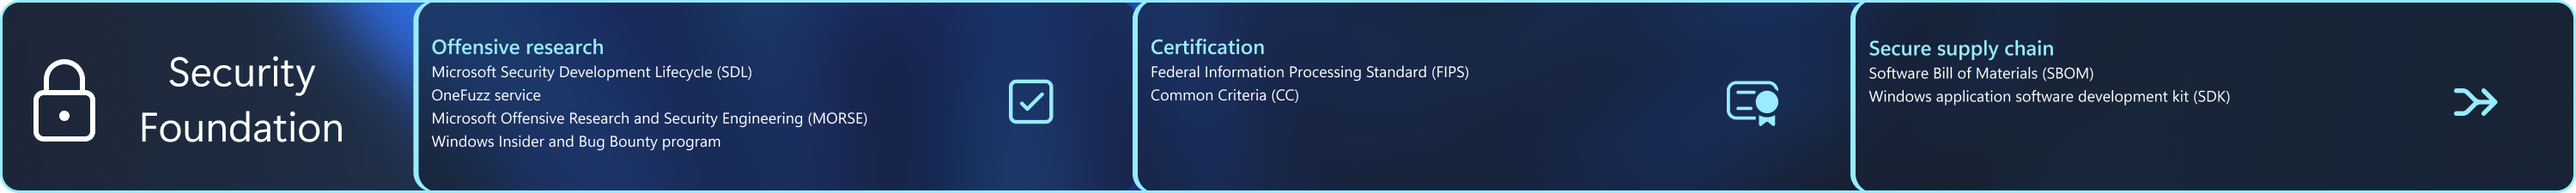
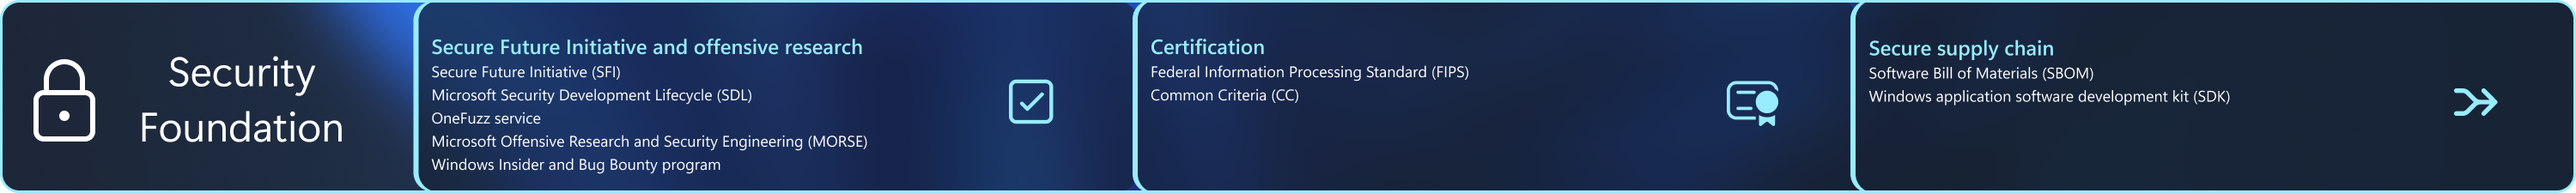
SFI addition

diff --git a/windows/security/book/security-foundation-offensive-research.md b/windows/security/book/security-foundation-offensive-research.md
@@ -5,9 +5,32 @@ ms.topic: overview
 ms.date: 09/06/2024
 ---
 
-# Offensive research
+# Secure Future Initiative and offensive research
 
 :::image type="content" source="images/security-foundation.png" alt-text="Diagram containing a list of security features." lightbox="images/security-foundation.png" border="false":::
+
+## Secure Future Initiative (SFI)
+
+
+
+:::row:::
+    :::column:::
+        Launched in November 2023, the Microsoft Secure Future Initiative (SFI) is a multiyear commitment dedicated to advancing the way we design, build, test, and operate our technology. Our goal is to ensure that our solutions meet the highest possible standards for security.
+
+The increasing scale and high stakes of cyberattacks prompted the launch of SFI. This program brings together every part of Microsoft to enhance cybersecurity protection across our company and products. We carefully considered our internal observations and feedback from customers, governments, and partners to identify the greatest opportunities to impact the future of security.
+
+To maintain accountability and keep our customers, partners, and the security community informed, Microsoft provides regular updates on the progress of SFI.
+    :::column-end:::
+    :::column:::
+:::image type="content" source="images/sfi.png" alt-text="Diagram of the SFI initiative.":::
+    :::column-end:::
+:::row-end:::
+
+
+:::image type="icon" source="images/learn-more.svg" border="false"::: **Learn more:**
+
+- [Microsoft Secure Future Initiative][LINK-6]
+- [September 2024 progress update on SFI][LINK-5]
 
 ## Microsoft Security Development Lifecycle (SDL)
 
@@ -45,3 +68,5 @@ Through this collaboration with researchers across the globe, our teams identify
 [LINK-2]: https://www.microsoft.com/security/blog/author/microsoft-offensive-research-security-engineering-team
 [LINK-3]: /windows-insider/get-started
 [LINK-4]: https://www.microsoft.com/msrc/bounty
+[LINK-5]: https://www.microsoft.com/security/blog/2024/09/23/securing-our-future-september-2024-progress-update-on-microsofts-secure-future-initiative-sfi/
+[LINK-6]: https://www.microsoft.com/trust-center/security/secure-future-initiative
